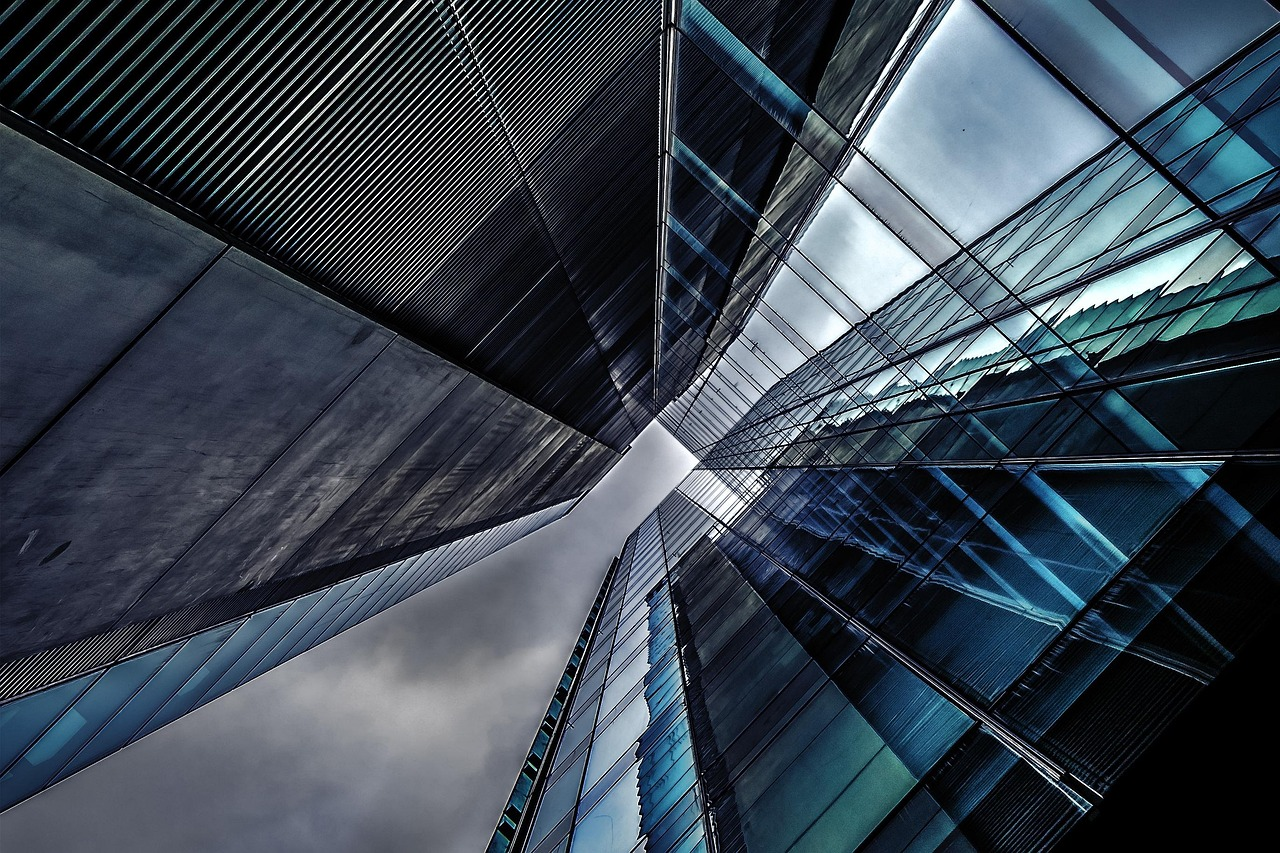
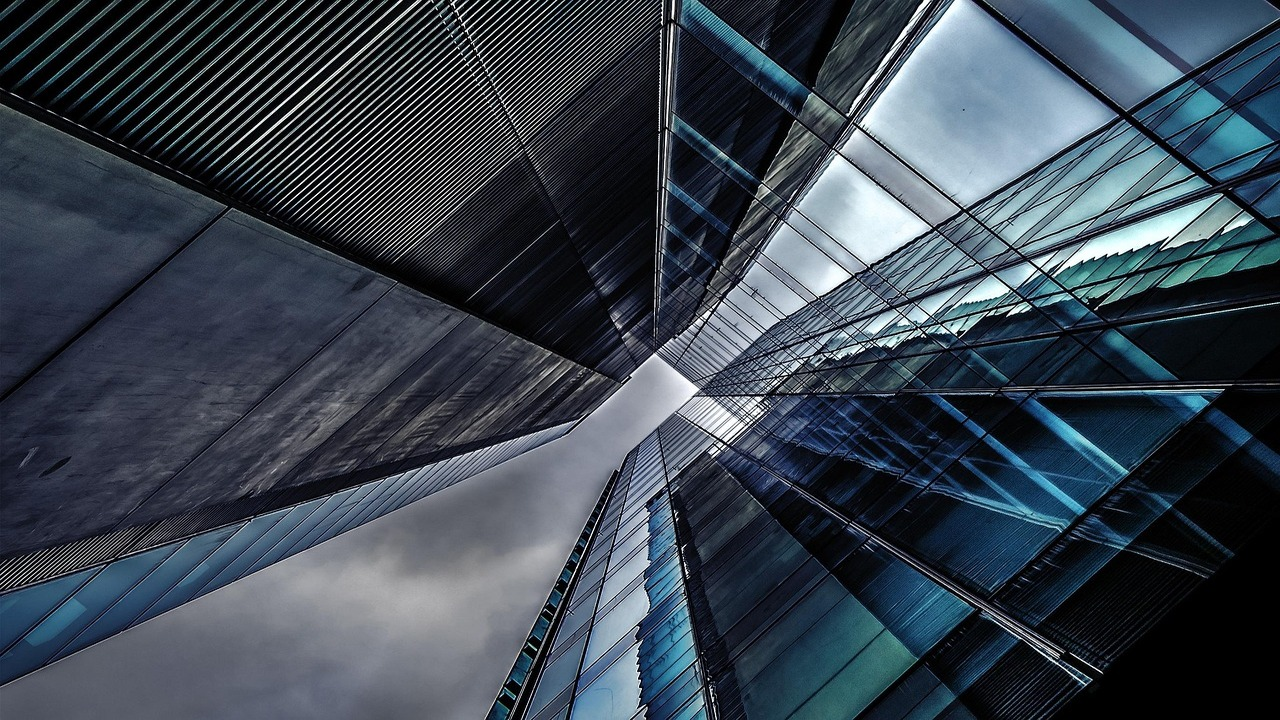
Se cambia tamaño de fotos y se comienza con el formulario de registro

Changed region(s): [[0.2812, 0.0, 0.4688, 0.3361], [0.0312, 0.7639, 0.0625, 0.7944]]

diff --git a/src/componentes/Registro.tsx b/src/componentes/Registro.tsx
@@ -1,3 +1,148 @@
+import {
+    Box,
+    Button,
+    FormControl,
+    IconButton,
+    InputAdornment,
+    InputLabel,
+    OutlinedInput,
+    TextField,
+    Typography,
+} from '@mui/material'
+import { Footer } from './Footer'
+import fondo from '../assets/foto-registro.jpg'
+import { useState } from 'react'
+import { Visibility, VisibilityOff } from '@mui/icons-material'
+
 export const Registro = () => {
-    return <div>Registro</div>
+    const [showPassword, setShowPassword] = useState(false)
+
+    const handleClickShowPassword = () => setShowPassword((show) => !show)
+
+    const handleMouseDownPassword = (
+        event: React.MouseEvent<HTMLButtonElement>
+    ) => {
+        event.preventDefault()
+    }
+
+    const handleMouseUpPassword = (
+        event: React.MouseEvent<HTMLButtonElement>
+    ) => {
+        event.preventDefault()
+    }
+    return (
+        <Box
+            sx={{
+                backgroundImage: `url(${fondo})`,
+                backgroundSize: 'cover',
+                backgroundPosition: 'center',
+                backgroundRepeat: 'no-repeat',
+                display: 'flex',
+                flexDirection: 'column',
+                minHeight: '100vh',
+                width: '100%',
+                pt: 1,
+            }}
+        >
+            <Box
+                sx={{
+                    flexGrow: 1,
+                    display: 'flex',
+                    flexDirection: 'column',
+                    justifyContent: 'center',
+                    alignItems: 'center',
+                }}
+            >
+                {/*Formulario de Registro */}
+                <Box
+                    sx={{
+                        maxWidth: 400,
+                        width: '90%',
+                        p: 3,
+                        border: '1px solid #0e0d0dff',
+                        borderRadius: 4,
+                        backgroundColor: 'rgba(243, 245, 246, 0.85)',
+                    }}
+                >
+                    <Typography
+                        variant="h6"
+                        component="h4"
+                        sx={{ textAlign: 'center', marginBottom: 3 }}
+                    >
+                        Complete los campos para registrarse
+                    </Typography>
+                    <Box>
+                        <TextField
+                            required
+                            id="nombre"
+                            label="nombre"
+                            type="text"
+                            variant="outlined"
+                            fullWidth
+                            margin="normal"
+                            helperText="Campo obligatorio"
+                        />
+                        <TextField
+                            required
+                            id="apellido"
+                            label="apellido"
+                            type="text"
+                            variant="outlined"
+                            fullWidth
+                            margin="normal"
+                            helperText="Ingrese su apellido"
+                        />
+                    </Box>
+
+                    <FormControl
+                        sx={{ m: 1, width: '25ch' }}
+                        variant="outlined"
+                    >
+                        <InputLabel htmlFor="outlined-adornment-password">
+                            Contraseña
+                        </InputLabel>
+                        <OutlinedInput
+                            id="outlined-adornment-password"
+                            type={showPassword ? 'text' : 'password'}
+                            endAdornment={
+                                <InputAdornment position="end">
+                                    <IconButton
+                                        aria-label={
+                                            showPassword
+                                                ? 'hide the password'
+                                                : 'display the password'
+                                        }
+                                        onClick={handleClickShowPassword}
+                                        onMouseDown={handleMouseDownPassword}
+                                        onMouseUp={handleMouseUpPassword}
+                                        edge="end"
+                                    >
+                                        {showPassword ? (
+                                            <VisibilityOff />
+                                        ) : (
+                                            <Visibility />
+                                        )}
+                                    </IconButton>
+                                </InputAdornment>
+                            }
+                            label="Password"
+                        />
+                    </FormControl>
+
+                    <Button
+                        variant="contained"
+                        color="primary"
+                        sx={{
+                            marginTop: '16px',
+                            marginInline: 'auto',
+                            display: 'block',
+                        }}
+                    >
+                        Enviar
+                    </Button>
+                </Box>
+            </Box>
+            <Footer />
+        </Box>
+    )
 }

diff --git a/src/componentes/Login.tsx b/src/componentes/Login.tsx
@@ -79,66 +79,3 @@ export const Login = () => {
         </Box>
     )
 }
-
-// import { Box, Button, TextField, Typography } from '@mui/material'
-// import { Footer } from './Footer'
-
-// export const Login = () => {
-//     return (
-//         <>
-//             <Box sx={{
-//                     backgroundColor: '#eff0f0ff',
-//                     display: 'flex',
-//                     flexDirection: 'column',
-//                     minHeight: '100vh',
-//                     pt: 10,
-//                 }}>
-
-//                 <Box
-//                 sx={{
-//                     display: 'flex',
-//                     flexDirection: 'column',
-//                     justifyContent: 'center',
-//                     alignItems: 'center',
-//                     maxWidth: 400,
-//                     mx: 'auto',
-//                     p: 3,
-//                     border: '1px solid #0e0d0dff',
-//                     borderRadius: 4,
-//                     backgroundColor: '#f3f5f6ff',
-//                 }}
-//             >
-//                 <Typography
-//                     variant="h6"
-//                     component="h4"
-//                     sx={{ textAlign: 'center', marginBottom: 4 }}
-//                 >
-//                     Ingrese sus datos para iniciar sesión
-//                 </Typography>
-//                 <TextField
-//                     id="username"
-//                     label="Usuario"
-//                     type="text"
-//                     variant="outlined"
-//                     fullWidth
-//                     margin="normal"
-//                     helperText="Ingrese un usuario registrado"
-//                 />
-//                 <TextField
-//                     id="username"
-//                     label="password"
-//                     type="password"
-//                     variant="outlined"
-//                     fullWidth
-//                     margin="normal"
-//                     helperText="Ingrese su contraseña"
-//                 />
-//                 <Button variant="contained" color="primary" sx={{ marginTop: '16px', marginInline: 'auto', display: 'block' }}>
-//                     Enviar
-//                 </Button>
-//             </Box>
-//             <Footer />
-//             </Box>
-//         </>
-//     )
-// }

diff --git a/src/componentes/NavInicio.tsx b/src/componentes/NavInicio.tsx
@@ -4,7 +4,7 @@ import logo from '../assets/logo.png'
 
 export const NavInicio = () => {
     return (
-        <AppBar position="static" sx={{ px: 2, backgroundColor: '#9e9e9e'}}>
+        <AppBar position="static" sx={{ px: 2, backgroundColor: '#9e9e9e' }}>
             <Toolbar sx={{ height: 100, alignItems: 'center' }}>
                 {/* Logo */}
                 <Button
@@ -21,7 +21,12 @@ export const NavInicio = () => {
                         '&:hover': { backgroundColor: 'transparent' },
                     }}
                 >
-                    <img src={logo} alt="Logo" width="200" style={{ borderRadius: '5px' }} />
+                    <img
+                        src={logo}
+                        alt="Logo"
+                        width="200"
+                        style={{ borderRadius: '5px' }}
+                    />
                 </Button>
                 {/* Links izquierda */}
                 <Box sx={{ flexGrow: 1 }}>

diff --git a/src/componentes/Home.tsx b/src/componentes/Home.tsx
@@ -30,7 +30,7 @@ export const Home = () => {
                     }}
                 >
                     <Typography
-                        variant="h5"
+                        variant="body1"
                         sx={{
                             whiteSpace: 'pre-line',
                             lineHeight: 1.7,
